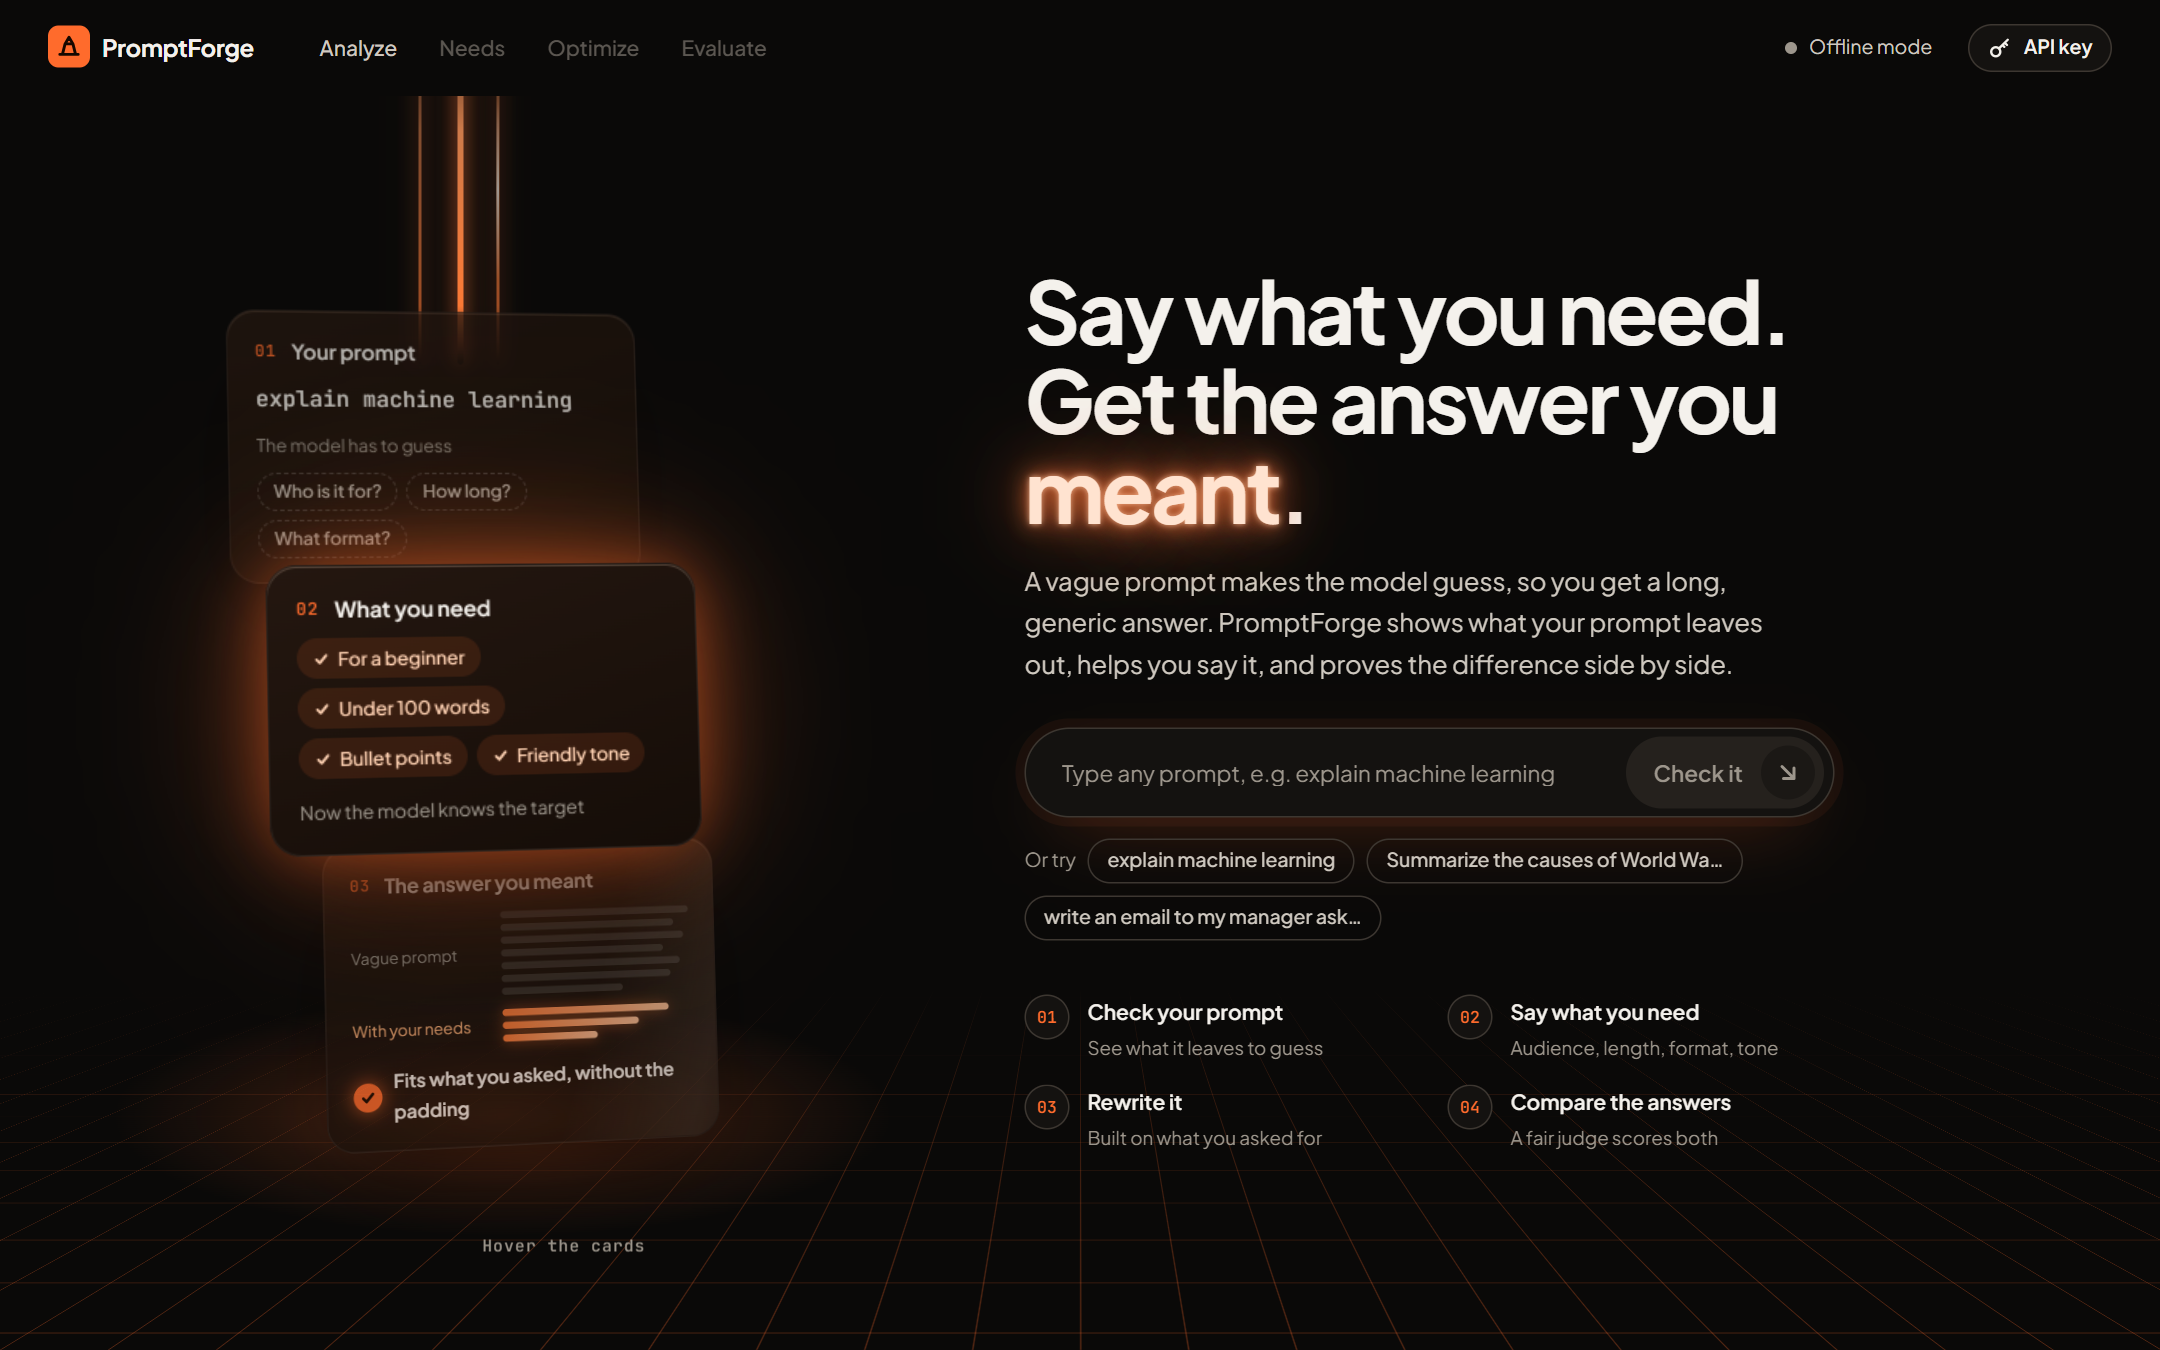
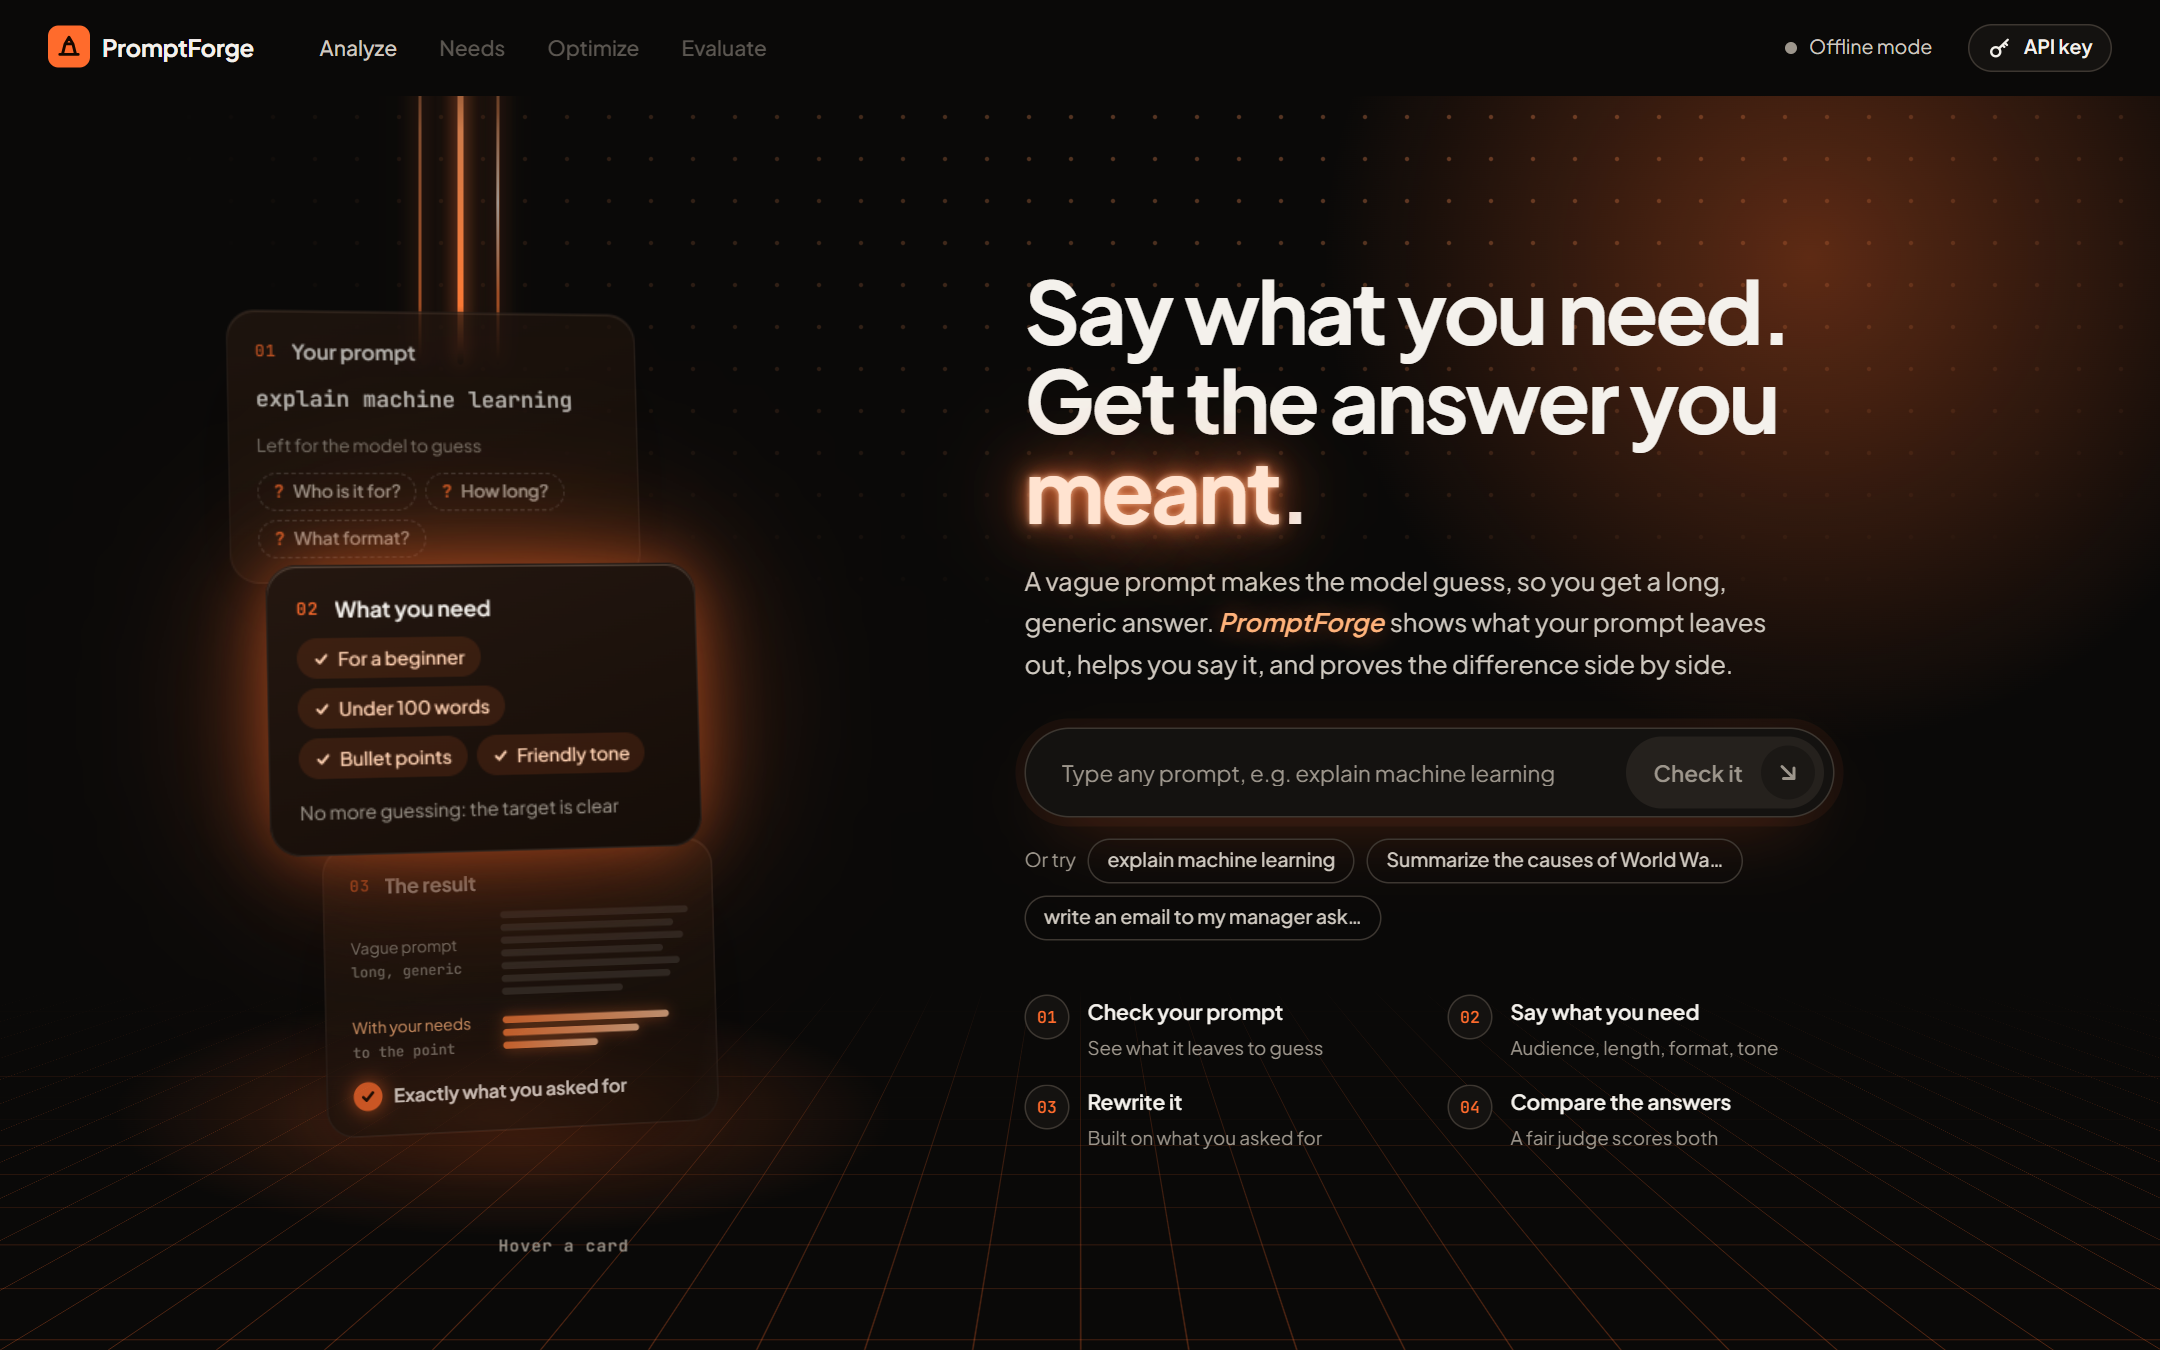
Hero: steady hover, top glow and dots, clearer cards
- A hovered card stays in front until the mouse leaves; the timed
  story then continues from that card. Hover uses fixed zones over each
  card's resting spot, so tilting cards cannot cause flicker
- Warm corner glow and a field of orange dots back at the top, above
  the perspective grid
- Card hint sits in the header and takes no space until shown; card 3
  renamed 'The result'; guesses marked with ?, short row captions
- 'PromptForge' highlighted in italic orange in the intro line

diff --git a/components/Hero.tsx b/components/Hero.tsx
@@ -35,18 +35,31 @@ export function Hero({
   demo: HeroDemo;
 }) {
   const [text, setText] = useState("");
-  const [active, setActive] = useState(0);
-  const [hovering, setHovering] = useState(false);
+  const [auto, setAuto] = useState(0); // where the timed story is
+  const [held, setHeld] = useState<number | null>(null); // card the visitor is pointing at
+  const active = held ?? auto;
   const tiltRef = useRef<HTMLDivElement>(null);
   const inputRef = useRef<HTMLInputElement>(null);
 
   // The cards take turns coming forward, telling the before-to-after story.
-  // Hovering hands control to the visitor; autoplay resumes when they leave.
+  // While a card is held (hovered or focused) it stays in front; when the
+  // visitor leaves, the story carries on from that card.
   useEffect(() => {
-    if (hovering || window.matchMedia("(prefers-reduced-motion: reduce)").matches) return;
-    const id = setInterval(() => setActive((a) => (a + 1) % 3), 3000);
+    if (held !== null || window.matchMedia("(prefers-reduced-motion: reduce)").matches) return;
+    const id = setInterval(() => setAuto((a) => (a + 1) % 3), 3000);
     return () => clearInterval(id);
-  }, [hovering]);
+  }, [held]);
+
+  const heldRef = useRef<number | null>(null);
+  function hold(index: number) {
+    heldRef.current = index;
+    setHeld(index);
+  }
+  function release() {
+    if (heldRef.current !== null) setAuto(heldRef.current);
+    heldRef.current = null;
+    setHeld(null);
+  }
 
   // Gentle 3D tilt toward the pointer (mouse only, off for reduced motion).
   function tilt(e: React.PointerEvent<HTMLDivElement>) {
@@ -58,7 +71,7 @@ export function Hero({
     tiltRef.current?.style.setProperty("--rx", `${(-y * 8).toFixed(2)}deg`);
   }
   function leave() {
-    setHovering(false);
+    release();
     tiltRef.current?.style.setProperty("--ry", "0deg");
     tiltRef.current?.style.setProperty("--rx", "0deg");
   }
@@ -66,10 +79,15 @@ export function Hero({
     index,
     active,
     hint: demo.live ? "Open step" : index === 0 ? "Try it" : "Type yours",
-    onFocus: () => setActive(index),
-    // Before the visitor has a prompt, cards 2 and 3 invite them to type one.
-    onOpen: () => (!demo.live && index > 0 ? inputRef.current?.focus() : onOpen(index)),
+    onFocus: () => hold(index),
+    onBlur: release,
+    onOpen: () => openCard(index),
   });
+  // Before the visitor has a prompt, cards 2 and 3 invite them to type one.
+  function openCard(index: 0 | 1 | 2) {
+    if (!demo.live && index > 0) inputRef.current?.focus();
+    else onOpen(index);
+  }
 
   const submit = (e: React.FormEvent) => {
     e.preventDefault();
@@ -79,11 +97,13 @@ export function Hero({
   return (
     <section className="hero3" id="top">
       <div className="hero3-bg" aria-hidden>
+        <div className="sky" />
+        <div className="sun" />
         <div className="floor" />
       </div>
 
       <div className="hero3-grid">
-        <div className={`stage ${hovering ? "hovering" : ""}`} onPointerEnter={() => setHovering(true)} onPointerMove={tilt} onPointerLeave={leave}>
+        <div className={`stage ${held !== null ? "hovering" : ""}`} onPointerMove={tilt} onPointerLeave={leave}>
           <span className="nbeam n1" aria-hidden />
           <span className="nbeam n2" aria-hidden />
           <span className="nbeam n3" aria-hidden />
@@ -95,10 +115,11 @@ export function Hero({
                 {demo.prompt}
                 <span className="caret" />
               </div>
-              <div className="c-sub">{demo.guesses.length ? "The model has to guess" : "Nothing major left to guess"}</div>
+              <div className="c-sub">{demo.guesses.length ? "Left for the model to guess" : "Nothing important left to guess"}</div>
               <div className="c-pills">
                 {demo.guesses.map((g, i) => (
                   <span key={g} className="c-pill guess" style={{ "--k": i } as React.CSSProperties}>
+                    <b className="q">?</b>
                     {g}
                   </span>
                 ))}
@@ -107,6 +128,7 @@ export function Hero({
 
             <Card {...cardProps(1)} step="02" title="What you need">
               <div className="c-pills">
+                {demo.live && demo.needs.length === 0 && <span className="c-pill empty">Pick them in step 2</span>}
                 {demo.needs.map((n, i) => (
                   <span key={n} className="c-pill need" style={{ "--k": i } as React.CSSProperties}>
                     <svg width="11" height="11" viewBox="0 0 16 16" fill="none" stroke="currentColor" strokeWidth="2.4" strokeLinecap="round" strokeLinejoin="round">
@@ -116,19 +138,19 @@ export function Hero({
                   </span>
                 ))}
               </div>
-              <div className="c-sub">{demo.live && demo.needs.length === 0 ? "Tell PromptForge in step 2" : "Now the model knows the target"}</div>
+              <div className="c-sub">{demo.live && demo.needs.length === 0 ? "Audience, length, format, tone" : "No more guessing: the target is clear"}</div>
             </Card>
 
-            <Card {...cardProps(2)} step="03" title="The answer you meant">
+            <Card {...cardProps(2)} step="03" title="The result">
               <div className="c-compare">
                 <div className="c-row">
-                  <span className="c-lbl">Vague prompt</span>
+                  <span className="c-lbl">Vague prompt<small>long, generic</small></span>
                   <div className="lines long">
                     {Array.from({ length: 7 }, (_, i) => <i key={i} style={{ "--k": i } as React.CSSProperties} />)}
                   </div>
                 </div>
                 <div className="c-row">
-                  <span className="c-lbl hot">With your needs</span>
+                  <span className="c-lbl hot">With your needs<small>to the point</small></span>
                   <div className="lines short">
                     {Array.from({ length: 3 }, (_, i) => <i key={i} style={{ "--k": i } as React.CSSProperties} />)}
                   </div>
@@ -140,12 +162,17 @@ export function Hero({
                     <path d="M3.5 8.5l3 3 6-7" />
                   </svg>
                 </span>
-                {demo.outcome ? OUTCOME_TEXT[demo.outcome] : "Fits what you asked, without the padding"}
+                {demo.outcome ? OUTCOME_TEXT[demo.outcome] : "Exactly what you asked for"}
               </div>
             </Card>
           </div>
           </div>
-          <p className="stage-hint" aria-hidden>{hovering ? "Click a card" : "Hover the cards"}</p>
+          <div className="hits" aria-hidden>
+            {([0, 1, 2] as const).map((i) => (
+              <span key={i} onPointerEnter={() => hold(i)} onClick={() => openCard(i)} />
+            ))}
+          </div>
+          <p className="stage-hint" aria-hidden>{held !== null ? "Click to open" : "Hover a card"}</p>
         </div>
 
         <div className="hero3-copy">
@@ -155,7 +182,7 @@ export function Hero({
             Get the answer you <span className="neon-word">meant</span>.
           </h1>
           <p className="lede">
-            A vague prompt makes the model guess, so you get a long, generic answer. PromptForge shows what your prompt leaves out,
+            A vague prompt makes the model guess, so you get a long, generic answer. <em className="brand-em">PromptForge</em> shows what your prompt leaves out,
             helps you say it, and proves the difference side by side.
           </p>
 
@@ -211,6 +238,7 @@ function Card({
   title,
   hint,
   onFocus,
+  onBlur,
   onOpen,
   children,
 }: {
@@ -220,6 +248,7 @@ function Card({
   title: string;
   hint: string;
   onFocus: () => void;
+  onBlur: () => void;
   onOpen: () => void;
   children: React.ReactNode;
 }) {
@@ -229,8 +258,8 @@ function Card({
       role="button"
       tabIndex={0}
       aria-label={`${title}: ${hint}`}
-      onPointerEnter={onFocus}
       onFocus={onFocus}
+      onBlur={onBlur}
       onClick={onOpen}
       onKeyDown={(e) => {
         if (e.key === "Enter" || e.key === " ") {

diff --git a/app/globals.css b/app/globals.css
@@ -562,10 +562,46 @@ input.field.need-input { margin-top: 0; height: 40px; font-family: var(--sans); 
 .nbeam.n3 { --x: 26px; }
 .halo { left: calc(var(--stage-pad) + 180px); }
 .card3-title { white-space: nowrap; }
-.card3-hint { position: absolute; top: var(--s4); right: 16px; margin: 0; }
+.card3-title { flex: 1; min-width: 0; overflow: hidden; text-overflow: ellipsis; }
+.card3-hint { flex: none; margin: 0; }
 @media (max-width: 960px) {
   .stage { justify-items: center; padding-left: 0; }
   .nbeam, .halo { left: 50%; }
 }
 .nbeam, .halo { z-index: 0; }
 .tilt { position: relative; z-index: 1; }
+
+/* Fixed hover zones over each card's resting spot (cards move, zones do not) */
+.tilt, .hits { grid-area: 1 / 1; }
+.hits { position: relative; z-index: 3; align-self: center; width: min(360px, 100%); height: clamp(380px, 64vh, 520px); display: grid; grid-template-rows: 35% 35% 30%; }
+.hits span { cursor: pointer; }
+.stage .card3 { pointer-events: none; }
+
+/* Card content details */
+.c-pill .q { color: var(--accent); font-weight: 700; margin-right: 1px; }
+.c-pill.empty { border: 1px dashed var(--accent-line); color: #ffb27a; }
+.c-lbl small { display: block; margin-top: 2px; font: 500 10px var(--mono); color: var(--muted); opacity: 0.85; }
+
+/* Brand highlight in the intro line */
+.brand-em { font-style: italic; font-weight: 600; color: #ffb27a; text-shadow: 0 0 14px rgba(255, 107, 44, 0.45); padding-right: 1px; }
+
+/* Top of the page: warm glow and a field of orange dots above the grid */
+.sun {
+  position: absolute; top: -340px; right: -220px; width: 860px; height: 860px; border-radius: 50%;
+  background: radial-gradient(closest-side, rgba(255, 107, 44, 0.34), rgba(255, 107, 44, 0.08) 55%, transparent 72%);
+  animation: sun-drift 9s ease-in-out infinite alternate;
+}
+@keyframes sun-drift { from { transform: translate(0, 0) scale(1); } to { transform: translate(-40px, 30px) scale(1.08); } }
+.sky {
+  position: absolute; left: 0; right: 0; top: 0; height: 62%;
+  background-image: radial-gradient(circle, rgba(255, 150, 90, 0.5) 1px, transparent 1.8px);
+  background-size: 28px 28px;
+  -webkit-mask-image: radial-gradient(ellipse 75% 100% at 62% 0%, #000 15%, transparent 72%);
+  mask-image: radial-gradient(ellipse 75% 100% at 62% 0%, #000 15%, transparent 72%);
+  animation: twinkle 6s ease-in-out infinite;
+}
+@keyframes twinkle { 0%, 100% { opacity: 0.55; } 50% { opacity: 0.85; } }
+@media (prefers-reduced-motion: reduce) { .sun, .sky { animation: none; } }
+.stack, .hits { width: min(380px, 100%); }
+.card3-hint { max-width: 0; overflow: hidden; white-space: nowrap; transition: max-width 0.3s var(--ease), opacity 0.25s var(--ease), transform 0.25s var(--ease); }
+.stage.hovering .card3.active .card3-hint, .card3:focus-visible .card3-hint { max-width: 120px; }
